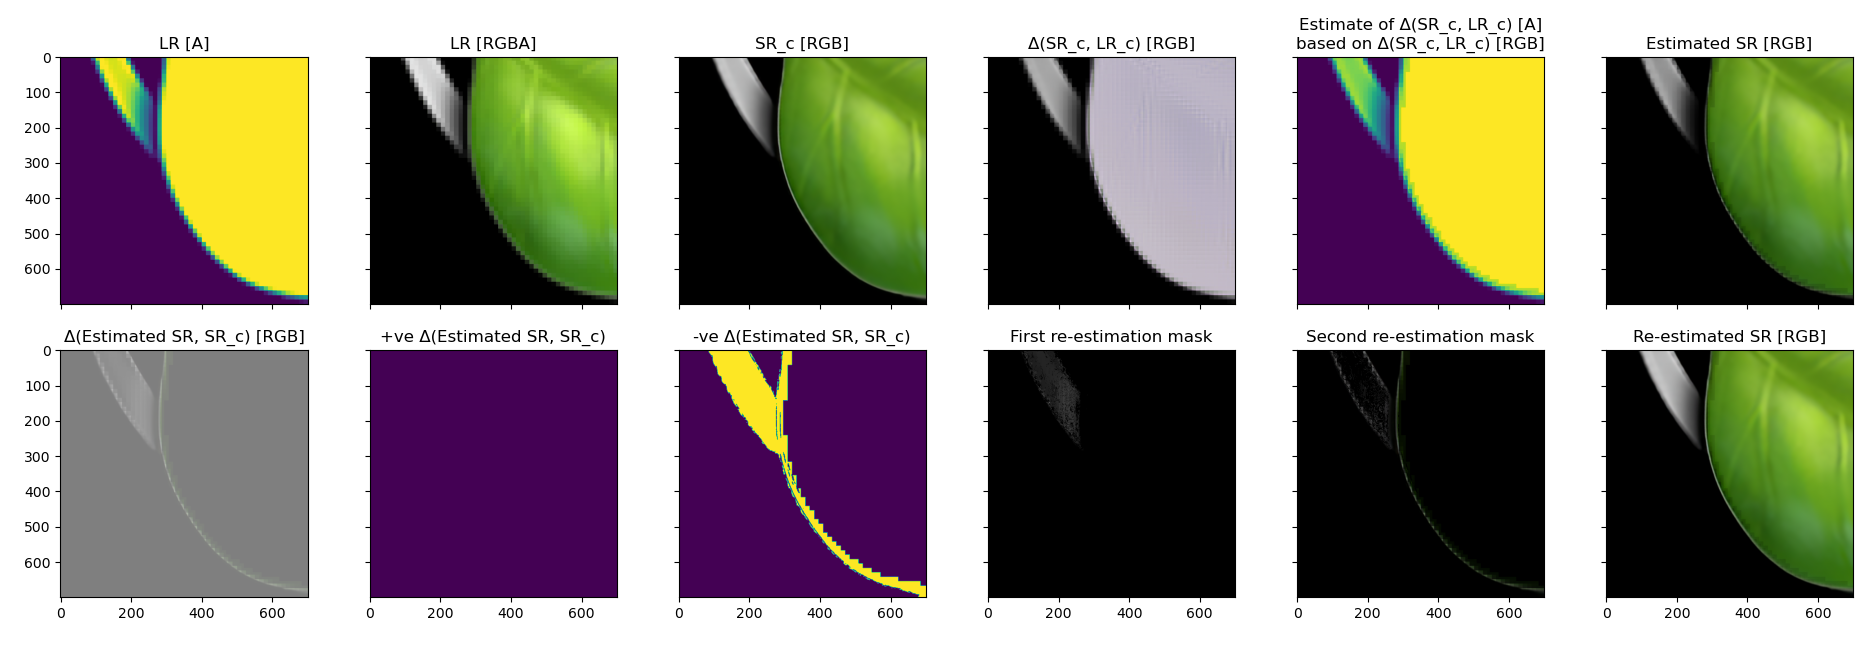
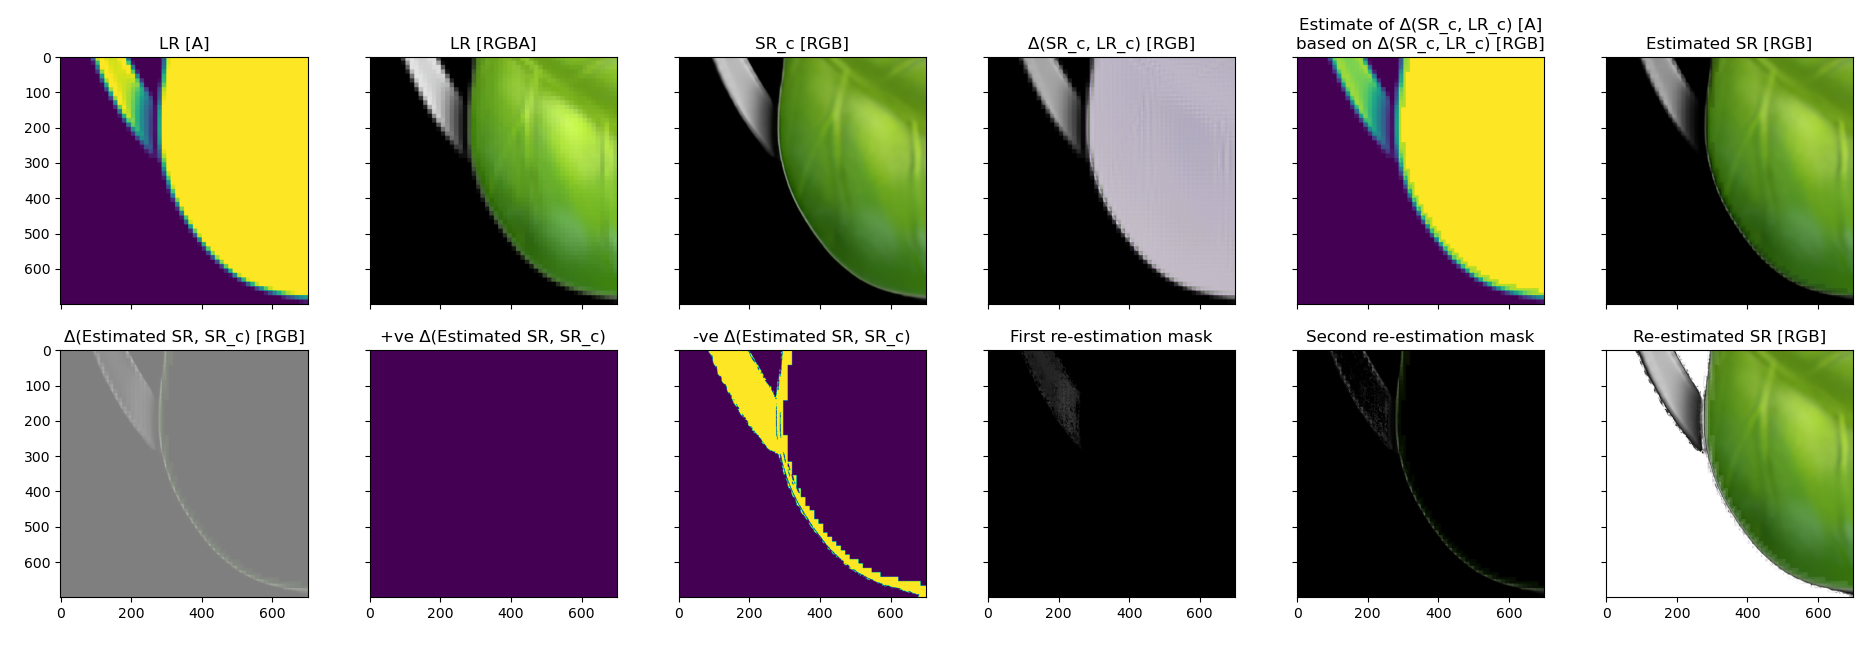
Re-plot the transparency more critically

Changed region(s): [[0.8419, 0.5199, 0.9978, 0.9174]]

diff --git a/further_reestimate_leaf_sr_transparency.py b/further_reestimate_leaf_sr_transparency.py
@@ -7,7 +7,6 @@ from imageio import imread, imwrite
 import numpy as np
 from skimage import transform as tf
 from skimage.util import img_as_ubyte, img_as_float
-from sklearn.preprocessing import normalize
 from matplotlib import pyplot as plt
 from transform_utils import scale_pixel_box_coordinates, crop_image
 from scipy.ndimage import convolve
@@ -296,6 +295,7 @@ adjusted_recomposited = alpha_composite_bg(adjusted_decomposited, bg_shade)
 recomposited = adjusted_recomposited
 loss = (img_sub / 2 / 255) - (recomposited / 2 / 255) + 0.5
 loss_mask = np.any(loss != 0.5, axis=2)
+decomposited[loss_mask, 3] = 1
 uniform_loss_mask = np.all(loss != 0.5, axis=2)
 uniform_equal_loss_mask = np.all(np.diff(loss, axis=2) == 0, axis=2)
 partial_loss_mask = loss_mask & np.invert(uniform_equal_loss_mask)
@@ -307,6 +307,13 @@ if bg_shade < 255:
     neg_loss_mask = np.all((bg_shade < decomposited[:,:,:3]), axis=2) & loss_mask
 else:
     neg_loss_mask = np.zeros_like(loss_mask, dtype=bool)
+
+# The problem is potentially solved now and any remaining pixels will be either:
+# - a background pixel to be interpolated
+# - the trivially fully opaque ones
+
+# The remaining alpha to be assigned is:
+# adjusted_decomposited[loss_mask, 3]
 
 fig3, f3_axes = plot_fig(
     scaled_source_img_sub_alpha,

diff --git a/reestimate_leaf_sr_transparency.py b/reestimate_leaf_sr_transparency.py
@@ -7,7 +7,6 @@ from imageio import imread, imwrite
 import numpy as np
 from skimage import transform as tf
 from skimage.util import img_as_ubyte, img_as_float
-from sklearn.preprocessing import normalize
 from matplotlib import pyplot as plt
 from transform_utils import scale_pixel_box_coordinates, crop_image
 from scipy.ndimage import convolve
@@ -288,7 +287,7 @@ alpha_change2[np.isnan(alpha_change2)] = 0
 alpha_changed_mask2 = alpha_change2 != 0
 adjusted_decomposited[alpha_changed_mask2, 3] = adjusted_decomposited[alpha_changed_mask2, 3] + alpha_change2[alpha_changed_mask2]
 
-adjusted_recomposited = alpha_composite_bg(adjusted_decomposited, bg_shade)
+adjusted_recomposited = alpha_composite_bg(adjusted_decomposited, 255 - bg_shade)
 
 fig3, f3_axes = plot_fig(
     scaled_source_img_sub_alpha,
